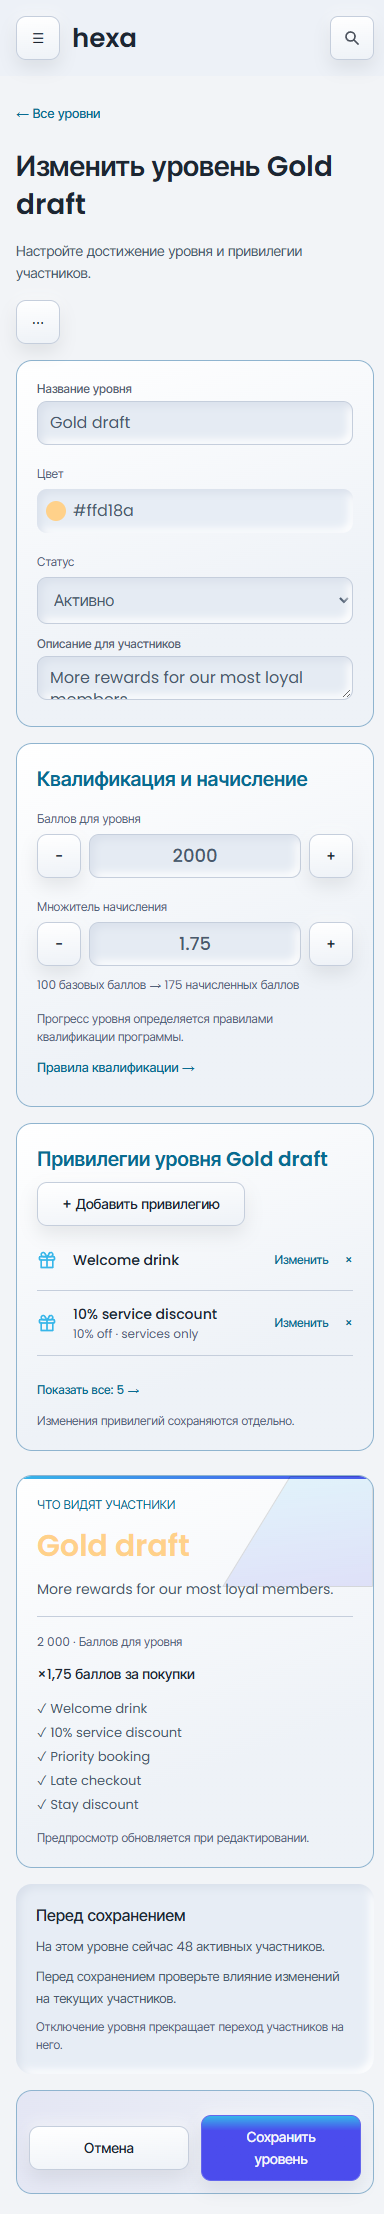
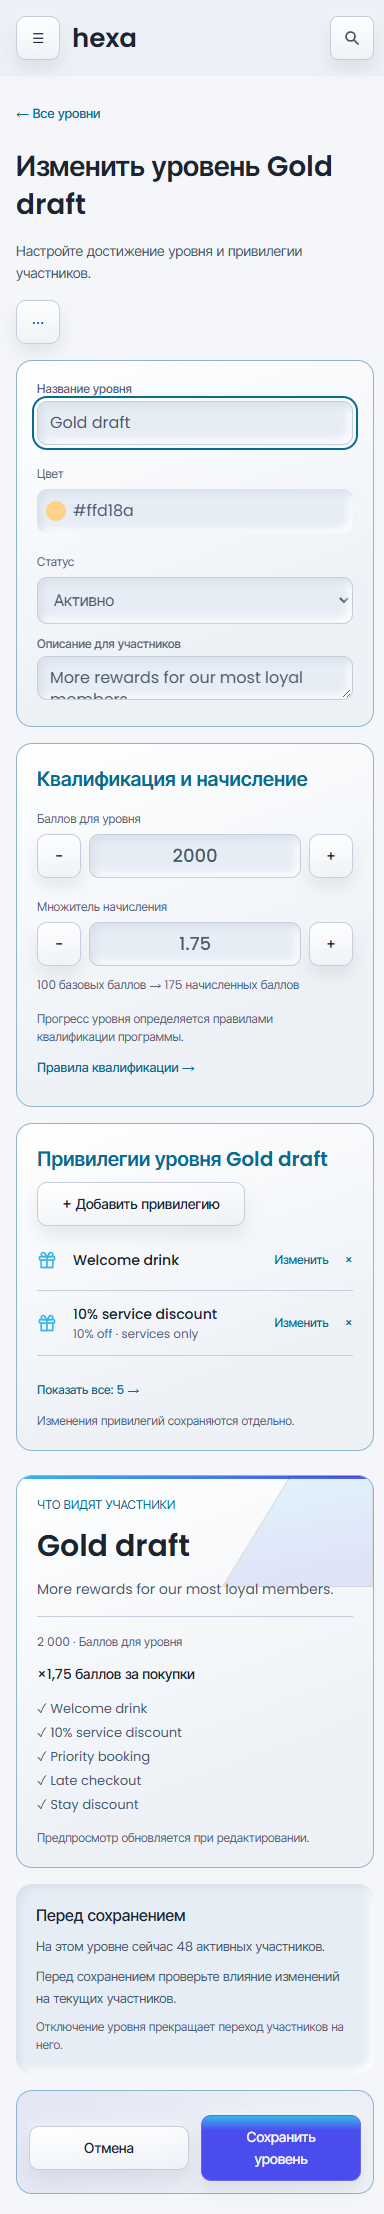
Keep tier text readable when switching themes in place

diff --git a/frontend/src/loyalty/program/TierBenefitDialog.tsx b/frontend/src/loyalty/program/TierBenefitDialog.tsx
@@ -1,11 +1,10 @@
 import { useBoot } from '../LoyaltyProvider'
-import { useLook } from '../lib/look'
 import { amountOf } from '../lib/format'
 import { DesignDialog, NumberControl } from '../redesign/DesignUI'
 import { OverviewButton } from '../overview/OverviewUI'
 import { overviewAssets } from '../overview/assets'
 import { useRedesignWords } from '../redesign/words'
-import { readableTierColor } from '../redesign/designMath'
+import { tierTextStyle } from '../redesign/designMath'
 import { useState } from 'react'
 import { useMutation, useQueryClient } from '@tanstack/react-query'
 import { useTranslation } from 'react-i18next'
@@ -40,7 +39,6 @@ export function TierBenefitDialog({ tier, current, benefits, options, onClose }:
   const { t, i18n } = useTranslation()
   const say = useRedesignWords()
   const boot = useBoot()
-  const look = useLook()
   const [details, setDetails] = useState(false)
   const client = useQueryClient()
   const firstChoice = useFirstFocus<HTMLSelectElement>()
@@ -99,7 +97,7 @@ export function TierBenefitDialog({ tier, current, benefits, options, onClose }:
           </div>
           <FormField label={say('wording')} problem={problem('value')} hint={say('wordingHint')}><textarea aria-label={say('wording')} ref={current ? firstWording : undefined} value={form.value} rows={2} maxLength={255} onChange={e => update({ value: e.target.value })} className={INPUT} /></FormField>
         </div>
-        <aside className="l-rd-benefit-preview"><span className="l-ov-eyebrow">{say('preview')}</span><h2 style={{ color: readableTierColor(tier.color, look.resolved) }}>{tier.name}</h2><hr /><img src={overviewAssets.gift} alt="" />
+        <aside className="l-rd-benefit-preview"><span className="l-ov-eyebrow">{say('preview')}</span><h2 className="l-rd-tier-text" style={tierTextStyle(tier.color)}>{tier.name}</h2><hr /><img src={overviewAssets.gift} alt="" />
           <h3>{typed || form.value || selected?.name || say('previewEmpty')}</h3>{typed && form.value && <p>{form.value}</p>}{selected && <p>{selected.name}</p>}<small>{word('loyalty.program.applies_to', APPLIES_TO_WORDS, form.applies_to)}</small>
           {selected && <><button type="button" className="l-ov-link" aria-expanded={details} onClick={() => setDetails(!details)}>{say('benefitDetails')}</button>{details && <div><p>{selected.description || say('detailsUnavailable')}</p>{selected.fulfillment_mode && <small>{word('loyalty.program.fulfillment_mode', FULFILLMENT_WORDS, selected.fulfillment_mode)}</small>}</div>}</>}
         </aside>

diff --git a/frontend/src/loyalty/program/ProgramPage.tsx b/frontend/src/loyalty/program/ProgramPage.tsx
@@ -31,7 +31,7 @@ import { TierEditorPage } from './TierEditorPage'
 import { SideMenu } from '../../workspace/shell/SideMenu'
 import { OverviewButton } from '../overview/OverviewUI'
 import { useRedesignWords } from '../redesign/words'
-import { readableTierColor } from '../redesign/designMath'
+import { tierTextStyle } from '../redesign/designMath'
 import programDiagonal from '../redesign/assets/program-diagonal.svg'
 import type { Benefit, Boost, Program, ProgramAdvice, Tier, TierBenefit } from './types'
 import { APPLIES_TO_WORDS, BOOST_STATE_WORDS, CATEGORY_WORDS, FULFILLMENT_WORDS, THRESHOLD_WORDS, VALUE_PHRASE_WORDS } from './words'
@@ -192,7 +192,7 @@ function Tiers({ program, manage, theme, locale, onOpen, go }: {
 }
 
 /** PG-01 uses actual floors, member counts and included benefits; the complete ladder remains available. */
-export function TierCard({ tier, manage, theme, locale, onOpen }: {
+export function TierCard({ tier, manage, locale, onOpen }: {
   tier: Tier; step: number; last: boolean; manage: boolean; theme: ThemeName; locale: string; onOpen: (open: Open) => void
 }) {
   const { t } = useTranslation()
@@ -202,7 +202,7 @@ export function TierCard({ tier, manage, theme, locale, onOpen }: {
   const by = boot.programme.progress_by ?? 'points'
   const floors = thresholds(tier, by)
   return <li data-tier={tier.id} className="l-rd-tier-card">
-    <header><h2 style={{ color: readableTierColor(tier.color, theme) }}>{tier.name}</h2><small className={tier.is_active ? 'l-rd-status-active' : ''}>{say(tier.is_active ? 'active' : 'off')}</small></header>
+    <header><h2 className="l-rd-tier-text" style={tierTextStyle(tier.color)}>{tier.name}</h2><small className={tier.is_active ? 'l-rd-status-active' : ''}>{say(tier.is_active ? 'active' : 'off')}</small></header>
     <div className="l-rd-tier-body">
       <dl className="l-rd-tier-floors">{floors.map(th => <div key={th.kind}><dd>{th.value === null ? t('loyalty.program.threshold.not_set', 'Not set') : th.kind === 'spend' ? money(th.value, boot.venue.currency, locale) : points(th.value, locale)}</dd><dt>{t(`loyalty.program.threshold.${th.kind}`, THRESHOLD_WORDS[th.kind])}</dt></div>)}</dl>
       <div className="l-rd-tier-rate"><span>{t('loyalty.program.tiers.earn_rate', 'Earn rate')}</span><strong>×{decimal(tier.earn_rate, locale)} {t('loyalty.member.points', 'Points')}</strong></div>

diff --git a/frontend/src/loyalty/program/TierDialog.tsx b/frontend/src/loyalty/program/TierDialog.tsx
@@ -6,7 +6,6 @@ import { Notice } from '../../workspace/ui/Notice'
 import { useBoot } from '../LoyaltyProvider'
 import { failureOf } from '../lib/api'
 import { refusalKey } from '../lib/errors'
-import { useLook } from '../lib/look'
 import { useFirstFocus } from '../lib/useFirstFocus'
 import { afterProgramChange, programApi } from './api'
 import { ERRORS } from './errors'
@@ -19,7 +18,7 @@ import { TIER_PROBLEM_WORDS } from './words'
 import { DesignDialog, NumberControl } from '../redesign/DesignUI'
 import { useRedesignWords } from '../redesign/words'
 import { OverviewButton } from '../overview/OverviewUI'
-import { readableTierColor } from '../redesign/designMath'
+import { tierTextStyle } from '../redesign/designMath'
 import levelDiagonal from '../redesign/assets/level-diagonal.svg'
 
 const INPUT = 'w-full rounded-lg border border-a-border bg-a-surface px-3 py-2 text-sm text-a-text'
@@ -43,7 +42,6 @@ export function TierDialog({ tier, onClose, page = false, benefits, more, onDirt
   const locale = i18n.language || 'en'
   const boot = useBoot()
   const by = boot.programme.progress_by ?? 'points'
-  const look = useLook()
   const client = useQueryClient()
   const colourId = useId()
   const first = useFirstFocus<HTMLInputElement>()
@@ -120,7 +118,7 @@ export function TierDialog({ tier, onClose, page = false, benefits, more, onDirt
       </div>
       <aside className="l-rd-editor-aside">
         <section data-member-preview="" className="l-ov-panel l-rd-level-preview" aria-label={say('memberPreview')}><img src={levelDiagonal} alt="" /><span className="l-ov-eyebrow">{say('memberPreview')}</span>
-          <h2 style={{ color: readableTierColor(form.color, look.resolved) }}>{form.name.trim() || t('loyalty.program.tier.preview', 'Preview')}</h2>
+          <h2 className="l-rd-tier-text" style={tierTextStyle(form.color)}>{form.name.trim() || t('loyalty.program.tier.preview', 'Preview')}</h2>
           {form.description && <p>{form.description}</p>}<hr />
           {floorValue !== '' && Number.isFinite(Number(floorValue)) && <small>{by === 'spend' ? money(Number(floorValue), boot.venue.currency, locale) : points(Number(floorValue), locale)} · {floorLabel}</small>}
           {rate !== null && <strong>{t('loyalty.program.tier.preview_rate', '×{{rate}} points on what they spend', { rate: decimal(rate, locale) })}</strong>}

diff --git a/frontend/src/loyalty/ui/TierChip.tsx b/frontend/src/loyalty/ui/TierChip.tsx
@@ -1,7 +1,7 @@
 import type { CSSProperties } from 'react'
 import { useTranslation } from 'react-i18next'
 import type { ThemeName } from '../../workspace/theme/accent'
-import { readableTierColor } from '../redesign/designMath'
+import { tierTextStyle } from '../redesign/designMath'
 import { tierPaint } from '../theme/tierChip'
 import type { TierRef } from '../lib/types'
 
@@ -11,7 +11,7 @@ export function TierChip({ tier, theme, size = 'md' }: { tier: Pick<TierRef, 'na
   const paint = tierPaint(tier?.color, theme)
   const pad = size === 'sm' ? 'px-2 py-0.5 text-xs' : 'px-2.5 py-1 text-xs'
   return (
-    <span data-tier-chip="" data-edge={paint.edge ? '' : undefined} style={{ ...paint.style, '--rd-tier-text': readableTierColor(tier?.color, theme) } as CSSProperties}
+    <span data-tier-chip="" data-edge={paint.edge ? '' : undefined} style={{ ...paint.style, ...tierTextStyle(tier?.color) } as CSSProperties}
       className={`l-tier inline-flex max-w-full items-center rounded-full font-semibold ${pad}`}>
       <span className="truncate">{tier ? tier.name : t('loyalty.common.no_tier', 'No tier')}</span>
     </span>

diff --git a/frontend/src/loyalty/redesign/designMath.ts b/frontend/src/loyalty/redesign/designMath.ts
@@ -1,3 +1,4 @@
+import type { CSSProperties } from 'react'
 /** Decimal-safe controls clamp only a deliberate step; typed values still pass through existing validation. */
 export function steppedValue(value: string, delta: number, min = 0, max = Number.MAX_SAFE_INTEGER): string {
   const parsed = Number(value.replace(',', '.'))
@@ -12,4 +13,10 @@ export function readableTierColor(color: string | null | undefined, theme: 'ligh
   const surface = theme === 'dark' ? '#2a2f59' : '#eef2f7'
   return hex && contrast(hex, surface) >= 4.5 ? hex : theme === 'dark' ? '#c7d3e5' : '#1b2430'
 }
+
+/** Resolve both paints once; CSS follows the live shell theme, including an in-place theme change. */
+export function tierTextStyle(color: string | null | undefined): CSSProperties {
+  return { '--rd-tier-dark': readableTierColor(color, 'dark'), '--rd-tier-light': readableTierColor(color, 'light') } as CSSProperties
+}
+
 

diff --git a/frontend/src/loyalty/redesign/redesign.css b/frontend/src/loyalty/redesign/redesign.css
@@ -1,4 +1,8 @@
 /* MB-01–03 / PG-01–03. Tokens and local Poppins belong to the shared Overview shell. */
+[data-loyalty][data-theme="dark"] .l-rd-tier-text { color: var(--rd-tier-dark); }
+[data-loyalty][data-theme="light"] .l-rd-tier-text { color: var(--rd-tier-light); }
+[data-loyalty][data-redesign][data-theme="dark"] [data-tier-chip] { --rd-tier-text: var(--rd-tier-dark); }
+[data-loyalty][data-redesign][data-theme="light"] [data-tier-chip] { --rd-tier-text: var(--rd-tier-light); }
 [data-loyalty][data-overview].l-rd-dialog-root { display: contents; }
 [data-loyalty][data-redesign] { --l-rd-emphasis: linear-gradient(100deg,#373b90,#2a2f59); --l-rd-accent-border: #37b6e938; --l-rd-table-head: #2a2f59; }
 [data-loyalty][data-redesign][data-theme="light"] { --l-rd-emphasis: linear-gradient(100deg,#e4e6ff,#e5f1fa); --l-rd-accent-border: #8fb4cf; --l-rd-table-head: #e4e6f4; }
